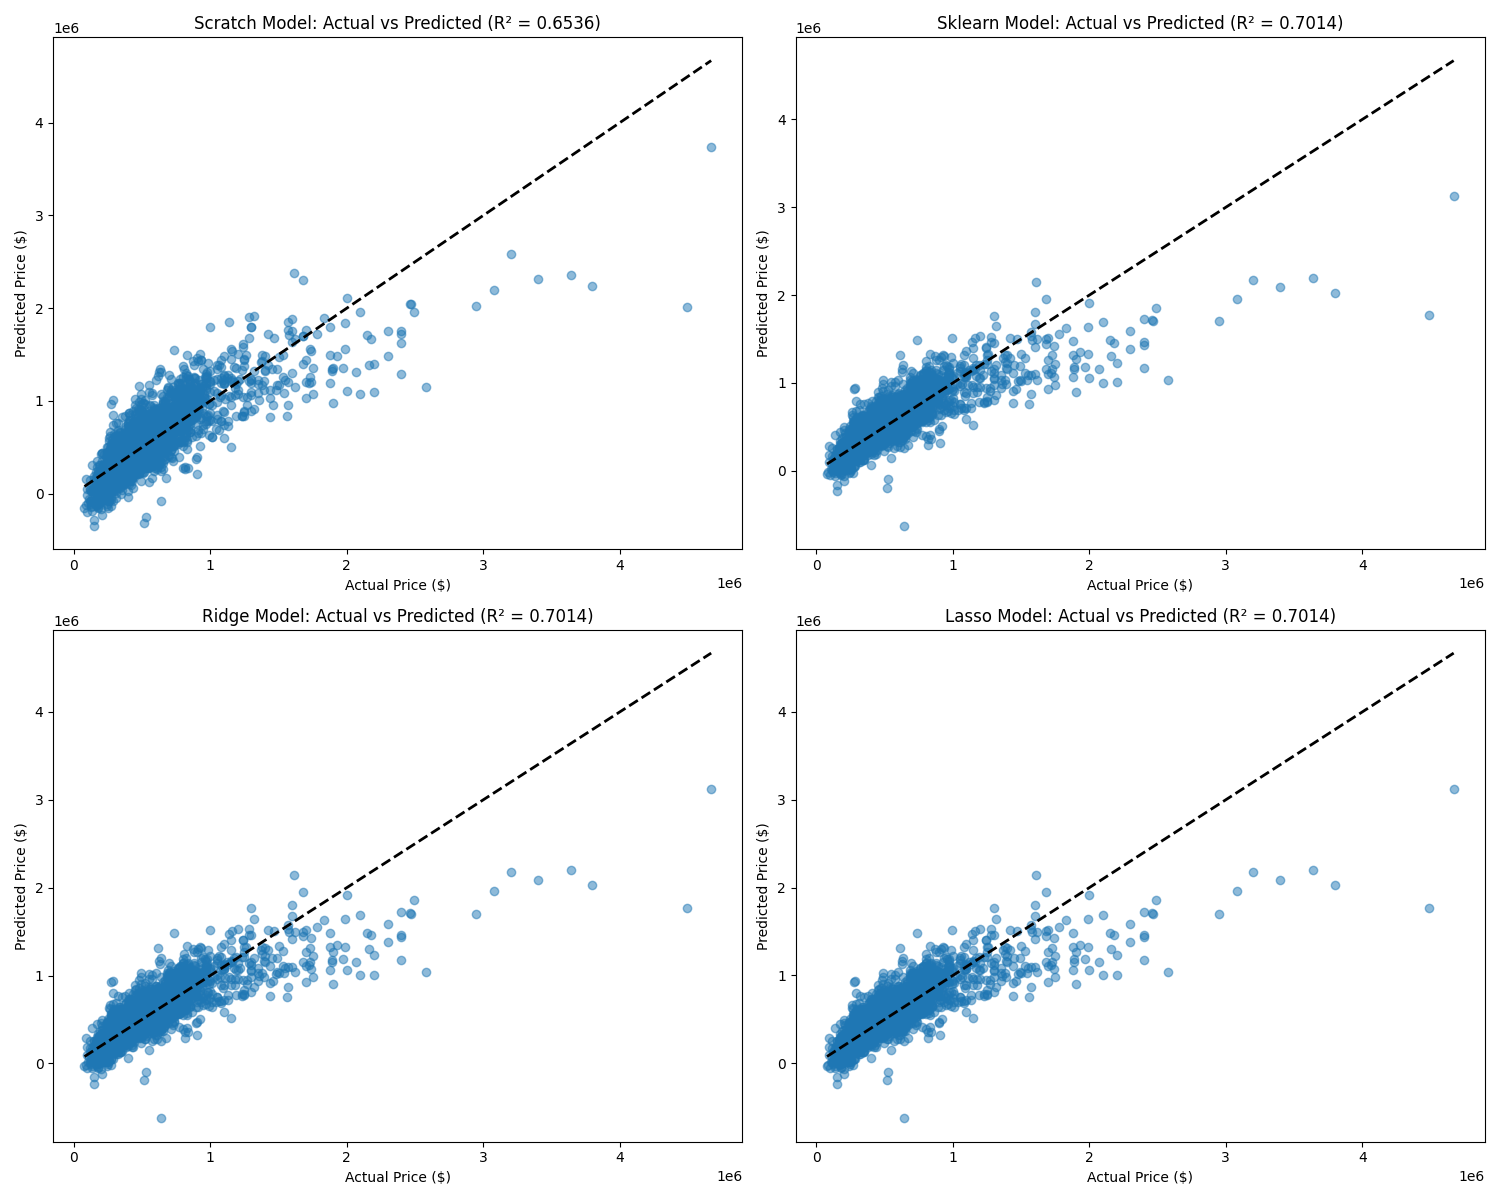
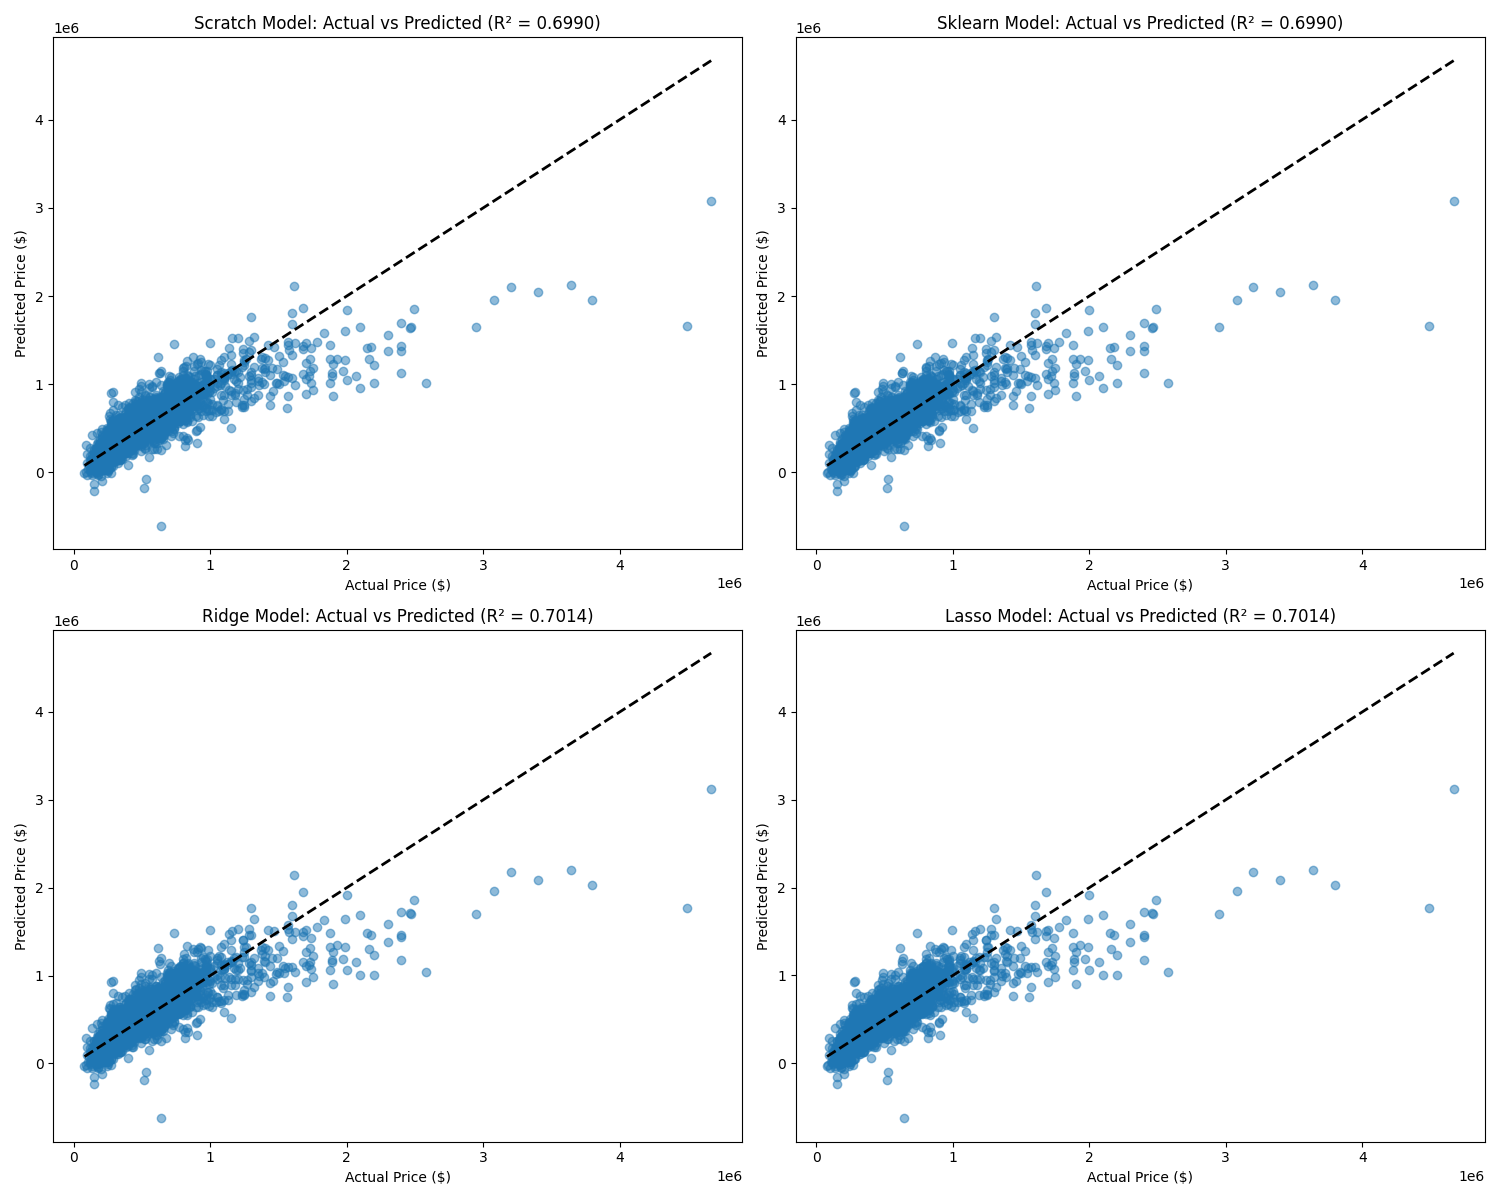
modify CVLA

diff --git a/CVLA/india_housing_regression.py b/CVLA/india_housing_regression.py
@@ -7,7 +7,37 @@ from sklearn.metrics import r2_score, mean_squared_error, mean_absolute_error
 from sklearn.preprocessing import StandardScaler
 from sklearn.linear_model import LinearRegression, Ridge, Lasso
 
-class LinearRegressionFromScratch:
+def inverse_gauss_jordan(A):
+    A = A.astype(float)
+    n = A.shape[0]                             # No. of rows in A
+    
+    I = np.eye(n)                              # n * n identity matrix
+    aug = np.hstack((A, I))                    # Horizontal stack A & I
+
+    for i in range(n):
+        # Ensure the pivot is non-zero. If it's zero, find a non-zero element and swap rows.
+        if aug[i, i] == 0:
+            for j in range(i + 1, n):
+                if aug[j, i] != 0:
+                    aug[[i, j]] = aug[[j, i]]
+                    break
+            else:
+                raise ValueError("Matrix is singular and cannot be inverted.")
+        
+        # Make the diagonal element = 1
+        aug[i] = aug[i] / aug[i, i]
+        
+        # Normalise other rows using standard row operations
+        for j in range(n):
+            if j != i:
+                aug[j] -= aug[j, i] * aug[i]
+
+    # Extract the inverse matrix from the augmented matrix
+    A_inv = aug[:, n:]
+    return A_inv
+
+
+class LinearRegression:
     def __init__(self):
         self.weights = None
         self.intercept = None
@@ -19,11 +49,8 @@ class LinearRegressionFromScratch:
         XT_X = np.dot(X_b.T, X_b)
         XT_y = np.dot(X_b.T, y)
         
-        try:
-            XT_X_inv = np.linalg.inv(XT_X)
-        except np.linalg.LinAlgError:
-            # Pseudo-inverse
-            XT_X_inv = np.linalg.pinv(XT_X)
+        XT_X_inv = inverse_gauss_jordan(XT_X)
+        
         
         self.weights = np.dot(XT_X_inv, XT_y)
 
@@ -100,7 +127,7 @@ def main():
     metrics = {}
     
     print_flush("\n   3.1 Training custom linear regression model ...")
-    scratch_model = LinearRegressionFromScratch()
+    scratch_model = LinearRegression()
     scratch_model.fit(X_train, y_train)
     models["scratch"] = scratch_model
     predictions["scratch_train"] = scratch_model.predict(X_train)
